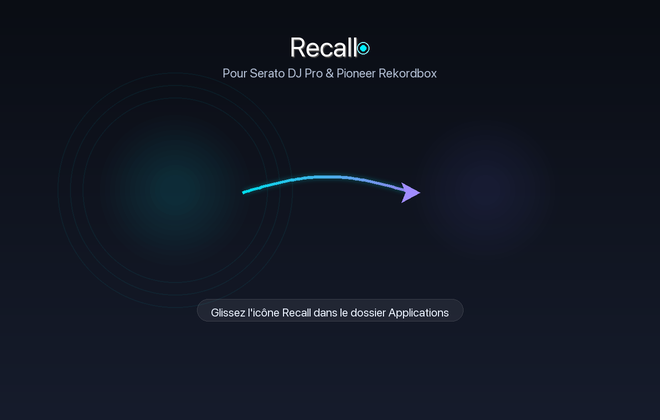
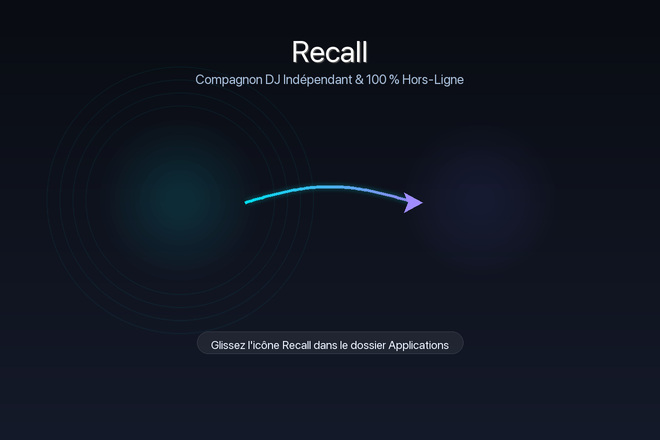
style(dmg): refine background title to clean Recall, update subtitle, and eliminate scrollbars

Changed region(s): [[0.303, 0.7119, 0.697, 0.8048], [0.303, 0.0929, 0.697, 0.2167], [0.3636, 0.4024, 0.6364, 0.4952]]

diff --git a/scripts/generate_dmg_background.py b/scripts/generate_dmg_background.py
@@ -6,48 +6,48 @@ from PIL import Image, ImageDraw, ImageFont, ImageFilter
 def create_dmg_background(output_dir="Resources"):
     os.makedirs(output_dir, exist_ok=True)
     
-    # Dimensions Retina : 1320 x 840 px (correspond à une fenêtre Finder de 660 x 420 pt de zone de contenu)
-    W, H = 1320, 840
+    # Dimensions Retina : 1320 x 880 px (correspond à une fenêtre Finder de 660 x 440 pt)
+    W, H = 1320, 880
     
-    # 1. Base gradient de fond
+    # 1. Base gradient de fond (élégant, profond, studio DJ haut de gamme)
     img = Image.new("RGBA", (W, H), (11, 14, 20, 255))
     draw = ImageDraw.Draw(img)
     
     for y in range(H):
         ratio = y / float(H)
-        # Dégradé subtil du bleu nuit profond (#0A0D14) vers un ardoise élégant (#121726)
-        r = int(10 + ratio * 12)
-        g = int(13 + ratio * 15)
-        b = int(20 + ratio * 24)
+        # Dégradé fluide : du noir nuit (#090C12) vers un ardoise bleuté subtil (#131826)
+        r = int(9 + ratio * 12)
+        g = int(12 + ratio * 14)
+        b = int(18 + ratio * 24)
         draw.line([(0, y), (W, y)], fill=(r, g, b, 255))
         
     # 2. Halo lumineux radial sous les deux icônes et le centre
-    # Centre Y légèrement rehaussé pour laisser respirer le bas (cy = 380 px / 190 pt)
-    cx, cy = 350, 380
-    ax, ay = 970, 380
+    # Centre Y des icônes : cy = 400 px (soit 200 pt dans Finder)
+    cx, cy = 360, 400
+    ax, ay = 960, 400
     
     glow_layer = Image.new("RGBA", (W, H), (0, 0, 0, 0))
     glow_draw = ImageDraw.Draw(glow_layer)
     
-    # Anneaux subtils de disque vinyle en arrière-plan centré sur l'icône de Recall
-    for radius in range(85, 260, 25):
+    # Anneaux subtils de disque vinyle en arrière-plan centré sur Recall
+    for radius in range(85, 270, 26):
         glow_draw.ellipse(
             [(cx - radius, cy - radius), (cx + radius, cy + radius)],
-            outline=(0, 240, 255, 14),
+            outline=(0, 240, 255, 13),
             width=2
         )
         
     # Halo néon cyan sous Recall
-    for rad in range(160, 20, -10):
-        alpha = int((1.0 - rad / 160.0) * 35)
+    for rad in range(170, 20, -10):
+        alpha = int((1.0 - rad / 170.0) * 36)
         glow_draw.ellipse(
             [(cx - rad, cy - rad), (cx + rad, cy + rad)],
             fill=(0, 240, 255, alpha)
         )
         
     # Halo sous Applications
-    for rad in range(160, 20, -10):
-        alpha = int((1.0 - rad / 160.0) * 30)
+    for rad in range(170, 20, -10):
+        alpha = int((1.0 - rad / 170.0) * 30)
         glow_draw.ellipse(
             [(ax - rad, cy - rad), (ax + rad, cy + rad)],
             fill=(99, 102, 241, alpha)
@@ -60,8 +60,8 @@ def create_dmg_background(output_dir="Resources"):
     arrow_layer = Image.new("RGBA", (W, H), (0, 0, 0, 0))
     arrow_draw = ImageDraw.Draw(arrow_layer)
     
-    arrow_start = (485, 385)
-    arrow_end = (825, 385)
+    arrow_start = (490, 405)
+    arrow_end = (830, 405)
     
     points = []
     steps = 80
@@ -73,7 +73,7 @@ def create_dmg_background(output_dir="Resources"):
         
     # Halo flou de la flèche
     for i in range(len(points) - 1):
-        arrow_draw.line([points[i], points[i+1]], fill=(0, 240, 255, 80), width=14)
+        arrow_draw.line([points[i], points[i+1]], fill=(0, 240, 255, 85), width=14)
     arrow_layer = arrow_layer.filter(ImageFilter.GaussianBlur(radius=6))
     arrow_draw = ImageDraw.Draw(arrow_layer)
     
@@ -83,7 +83,7 @@ def create_dmg_background(output_dir="Resources"):
         cr = int(0 + t * 160)
         cg = int(240 - t * 100)
         cb = int(255)
-        arrow_draw.line([points[i], points[i+1]], fill=(cr, cg, cb, 230), width=6)
+        arrow_draw.line([points[i], points[i+1]], fill=(cr, cg, cb, 235), width=6)
         
     # Pointe de flèche
     tip_x, tip_y = arrow_end
@@ -97,7 +97,7 @@ def create_dmg_background(output_dir="Resources"):
     img = Image.alpha_composite(img, arrow_layer)
     draw = ImageDraw.Draw(img)
     
-    # 4. Typographie & Titres
+    # 4. Typographie & Titres (Polices système Apple)
     font_title = None
     font_sub = None
     font_badge = None
@@ -109,8 +109,8 @@ def create_dmg_background(output_dir="Resources"):
     ]
     for fp in font_paths:
         try:
-            font_title = ImageFont.truetype(fp, 54)
-            font_sub = ImageFont.truetype(fp, 25)
+            font_title = ImageFont.truetype(fp, 60)
+            font_sub = ImageFont.truetype(fp, 26)
             font_badge = ImageFont.truetype(fp, 23)
             break
         except Exception:
@@ -121,35 +121,32 @@ def create_dmg_background(output_dir="Resources"):
         font_sub = ImageFont.load_default()
         font_badge = ImageFont.load_default()
         
-    # Titre "Recall" centré avec point cyan néon
+    # Titre "Recall" strictement centré (sans point ni icône parasite)
     title_text = "Recall"
     title_bbox = draw.textbbox((0, 0), title_text, font=font_title)
     tw = title_bbox[2] - title_bbox[0]
-    tx = (W - tw) // 2 - 12
-    ty = 60
+    tx = (W - tw) // 2
+    ty = 65
     
+    # Ombre portée subtile
     draw.text((tx + 2, ty + 2), title_text, font=font_title, fill=(0, 0, 0, 180))
+    # Titre blanc pur éclatant
     draw.text((tx, ty), title_text, font=font_title, fill=(255, 255, 255, 255))
     
-    dot_x = tx + tw + 10
-    dot_y = ty + 36
-    draw.ellipse([(dot_x - 6, dot_y - 6), (dot_x + 6, dot_y + 6)], fill=(0, 240, 255, 255))
-    draw.ellipse([(dot_x - 12, dot_y - 12), (dot_x + 12, dot_y + 12)], outline=(0, 240, 255, 120), width=2)
-    
-    # Sous-titre
-    sub_text = "Pour Serato DJ Pro & Pioneer Rekordbox"
+    # Nouveau sous-titre demandé : "Compagnon DJ Indépendant & 100 % Hors-Ligne"
+    sub_text = "Compagnon DJ Indépendant & 100 % Hors-Ligne"
     sub_bbox = draw.textbbox((0, 0), sub_text, font=font_sub)
     sw = sub_bbox[2] - sub_bbox[0]
     sx = (W - sw) // 2
-    sy = 130
-    draw.text((sx, sy), sub_text, font=font_sub, fill=(160, 175, 200, 210))
+    sy = 142
+    draw.text((sx, sy), sub_text, font=font_sub, fill=(160, 185, 215, 230))
     
-    # 5. Badge d'instruction (centré, relevé à y = 600 px pour être visible au-dessus de la barre d'état)
+    # 5. Badge d'instruction (centré, positionné pour ne jamais déborder ni générer d'ascenseur)
     badge_text = "Glissez l'icône Recall dans le dossier Applications"
     badge_bbox = draw.textbbox((0, 0), badge_text, font=font_badge)
     bw = badge_bbox[2] - badge_bbox[0]
     bx = (W - bw) // 2
-    by = 610
+    by = 675
     
     pad_x = 28
     pad_y = 12
@@ -163,18 +160,18 @@ def create_dmg_background(output_dir="Resources"):
     
     draw.text((bx, by), badge_text, font=font_badge, fill=(235, 242, 255, 255))
     
-    # Sauvegarde Retina 2x
+    # Sauvegarde Retina 2x (1320 x 880)
     retina_path = os.path.join(output_dir, "dmg_background@2x.png")
     img.save(retina_path, "PNG")
     
-    # Sauvegarde Standard 1x (660 x 420)
+    # Sauvegarde Standard 1x (660 x 440)
     std_path = os.path.join(output_dir, "dmg_background.png")
-    img_std = img.resize((660, 420), Image.Resampling.LANCZOS)
+    img_std = img.resize((660, 440), Image.Resampling.LANCZOS)
     img_std.save(std_path, "PNG")
     
-    print(f"✅ Images d'arrière-plan DMG générées avec succès :")
-    print(f"   • Retina : {retina_path} (1320x840)")
-    print(f"   • Standard : {std_path} (660x420)")
+    print(f"✅ Images d'arrière-plan DMG régénérées avec succès :")
+    print(f"   • Retina : {retina_path} (1320x880)")
+    print(f"   • Standard : {std_path} (660x440)")
 
 if __name__ == "__main__":
     create_dmg_background()
